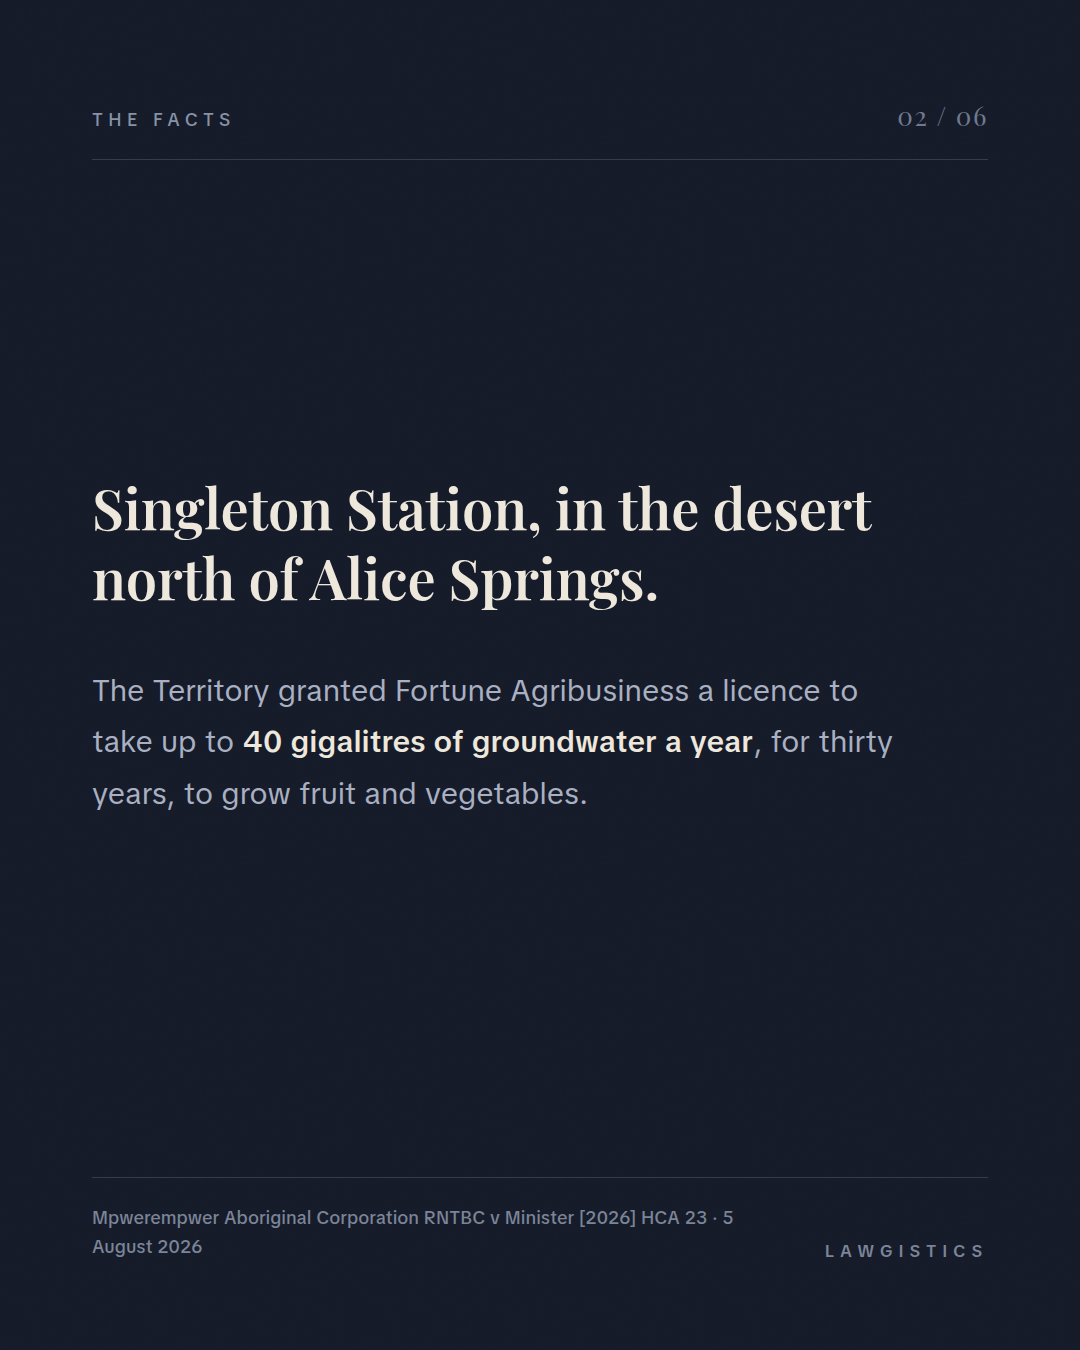
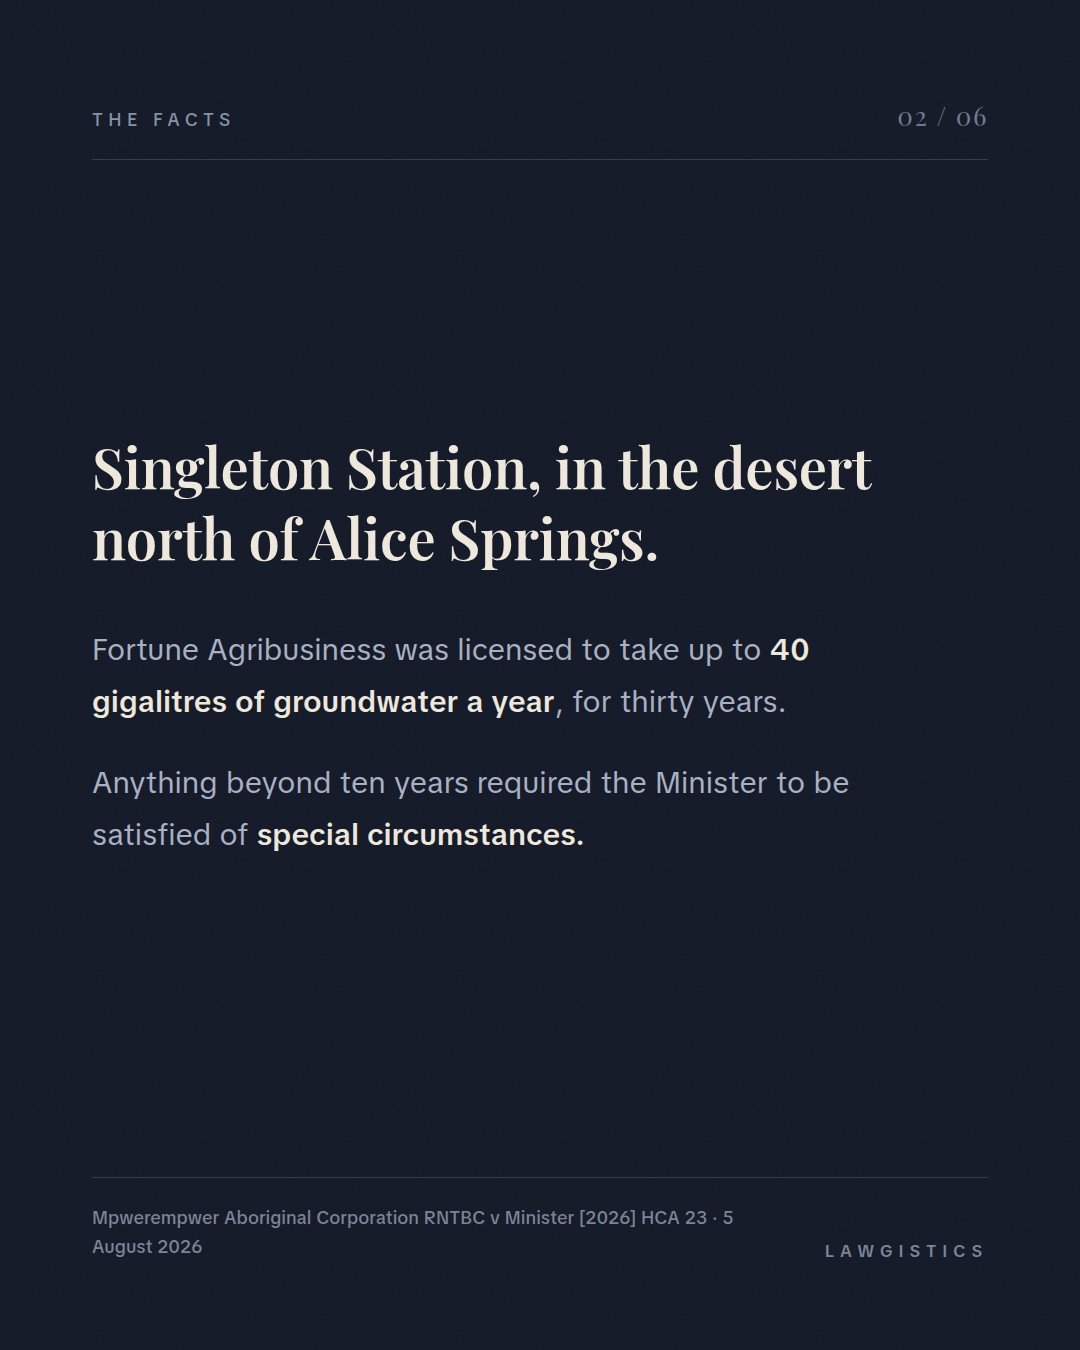
Second verification pass on HCA 23, rewrite slides 2 to 4
Legal trade reporting supplied the specific procedural fairness finding: a new
condition required an Aboriginal cultural values impact assessment, Fortune was
given two days to respond, and the Corporation was not notified until after the
licence issued. Also confirmed s 60 Water Act 1992 (NT), the special
circumstances requirement beyond ten years, and the full bench of seven.

Slides, caption, LinkedIn post and reel script rewritten on that basis and the
earlier hedging removed. Unanimity remains unverified and is not asserted.

Claude-Session: https://claude.ai/code/session_01JRjeUUcoRT5GxuTf3inkfN

Changed region(s): [[0.0917, 0.3111, 0.825, 0.6533]]

diff --git a/tools/carousel/water.py b/tools/carousel/water.py
@@ -95,19 +95,20 @@ slide(1, "A Case Study",
 
 slide(2, "The Facts",
   '<div class="statement md">Singleton Station, in the desert north of Alice Springs.</div>'
-  '<div class="body"><p>The Territory granted Fortune Agribusiness a licence to take up to <b>40 gigalitres of groundwater a year</b>, for thirty years, to grow fruit and vegetables.</p></div>',
+  '<div class="body"><p>Fortune Agribusiness was licensed to take up to <b>40 gigalitres of groundwater a year</b>, for thirty years.</p>'
+  '<p>Anything beyond ten years required the Minister to be satisfied of <b>special circumstances.</b></p></div>',
   cite=C)
 
 slide(3, "The Problem",
-  '<div class="statement md">The native title holders were never asked.</div>'
-  '<div class="body"><p>Mpwerempwer Aboriginal Corporation holds native title over the land.</p>'
-  '<p>On the reported outcome, it was given <b>no notice</b> of the proposed conditions and <b>no opportunity</b> to be heard on them.</p></div>',
+  '<div class="statement md">The company got two days. The native title holders were told <em>afterwards.</em></div>'
+  '<div class="body"><p>A new condition required an assessment of the impact on Aboriginal cultural values. Fortune was notified and given two days to respond.</p>'
+  '<p>Mpwerempwer Aboriginal Corporation heard nothing until the licence had already issued.</p></div>',
   cite=C)
 
 slide(4, "The Ruling",
-  '<div class="statement md">Licence quashed. Back to the Minister.</div>'
-  '<div class="body"><p>The application returns to Northern Territory decision makers to be made again, properly this time.</p>'
-  '<p>Thirty years of extraction, undone by the step that came before it.</p></div>',
+  '<div class="statement md">Licence set aside. Back to the Minister.</div>'
+  '<div class="body"><p>The Court held the Corporation should have been <b>heard first.</b></p>'
+  '<p>The application returns to the Minister to be decided again according to law. Thirty years of extraction, undone by the step before the decision.</p></div>',
   cite=C)
 
 slide(5, "The Principle",

diff --git a/reports/assets/2026-08-10/POSTING-KIT.md b/reports/assets/2026-08-10/POSTING-KIT.md
@@ -4,7 +4,7 @@
 **Case:** Mpwerempwer Aboriginal Corporation RNTBC v Minister [2026] HCA 23, High Court, 5 August 2026.
 **Why this one:** it is the biggest administrative law story of the sitting, and it lands squarely on a subject the audience is actually enrolled in. Slide 6 makes that explicit rather than leaving it to a practitioner to appreciate.
 
-⚠ **Read section 3 of `reports/2026-08-10-daily-court-intelligence.md` before posting.** Court sites are blocked from this environment, so the precise ground of decision and the bench are unconfirmed. The slides are worded conservatively for that reason.
+**Verification:** a second pass found legal trade reporting with the specific procedural fairness finding, so slides 2 to 4 were rewritten around it and the earlier hedging removed. Full table in section 3 of `reports/2026-08-10-daily-court-intelligence.md`. One item remains unverified: whether the Court was unanimous. Nothing published asserts it.
 
 ---
 
@@ -16,11 +16,15 @@ The Northern Territory granted Fortune Agribusiness a licence to take up to 40 g
 
 Mpwerempwer Aboriginal Corporation holds native title over that country. It challenged the grant.
 
-On 5 August the High Court quashed the licence and sent the application back to Northern Territory decision makers to be made again.
+On 5 August the High Court set the licence aside and sent the application back to the Minister to be decided again according to law.
 
-What is worth sitting with is how it fell. Not on the hydrology. Not on whether the water was there. On the reported outcome, the Corporation was given no notice of the conditions being proposed and no opportunity to be heard on them.
+What is worth sitting with is how it fell. Not on the hydrology. Not on whether the water was there.
 
-That is the whole of it. A decision can be defensible on its merits and still not survive, because fairness in the process is a condition of the power, not a courtesy extended afterwards by a decision maker who is feeling generous.
+A new condition was imposed requiring an assessment of the impact on Aboriginal cultural values. Fortune was told about it and given two days to respond. The Corporation was not told until after the licence had already issued. The Court held it should have been heard first.
+
+Two days for one party. A notification after the fact for the other.
+
+A decision can be perfectly defensible on its merits and still not survive, because fairness in the process is a condition of the power, not a courtesy extended afterwards by a decision maker who is feeling generous.
 
 If you are doing administrative law this semester, this is your exam paper walking around outside. Natural justice. Mandatory relevant considerations. Jurisdictional error. Certiorari and remitter. The doctrine you are being drilled on just unwound a thirty year entitlement.
 
@@ -48,7 +52,7 @@ A thirty year water entitlement has been set aside, and not on its merits.
 
 On 5 August the High Court quashed the licence granted to Fortune Agribusiness to extract up to 40 gigalitres of groundwater a year for thirty years at Singleton Station in the Northern Territory, and remitted the application to Territory decision makers. The Central Land Council describes it as the largest groundwater licence ever granted in the Territory.
 
-The challenge was brought by Mpwerempwer Aboriginal Corporation, the registered native title body corporate for the land. On the reported outcome, the Corporation received no notice of the conditions proposed and no opportunity to be heard on them.
+The challenge was brought by Mpwerempwer Aboriginal Corporation, the registered native title body corporate for the land. A new condition was imposed requiring an assessment of the impact on Aboriginal cultural values. Fortune was notified of it and given two days to respond. The Corporation was not notified until after the licence had issued. The Court held it should have been heard first.
 
 Two observations.
 
@@ -76,7 +80,7 @@ The Northern Territory granted it to a horticulture company in the desert north 
 Last Wednesday the High Court quashed it.
 
 **[0:16]**
-Not because of the water science. Because the native title holders were given no notice of the proposed conditions, and no chance to respond.
+Not because of the water science. A new condition went to the company, which got two days to respond. The native title holders were told after the licence issued.
 
 **[0:24]**
 Procedural fairness is not a courtesy. It is a condition of the power. Get it wrong and the whole decision goes.
@@ -89,7 +93,7 @@ Mpwerempwer, 2026, High Court 23.
 ## Story frames
 
 - "Forty gigalitres a year. Thirty years. Gone." → slide 1
-- "It did not fall on the science." → slide 3
+- "One party got two days. The other got told afterwards." → slide 3
 - "Your admin law exam, outside." → slide 6
 
 ---
@@ -98,12 +102,10 @@ Mpwerempwer, 2026, High Court 23.
 
 Full table in `reports/2026-08-10-daily-court-intelligence.md` section 3. Short version:
 
-**Confirmed across two independent searches:** citation and date, licence quashed and remitted, 40 GL per year for thirty years, Fortune Agribusiness at Singleton Station.
+**Confirmed:** citation and date, licence set aside and remitted to the Minister, 40 GL per year for thirty years, Fortune Agribusiness Funds Management Pty Ltd at Singleton Station, s 60 *Water Act 1992* (NT), the special circumstances requirement for a term beyond ten years, the two day window given to Fortune, the Corporation being notified only after the licence issued, and the holding that it should have been heard first. Bench: Gageler CJ, Gordon, Edelman, Steward, Gleeson, Jagot and Beech-Jones JJ.
 
 **Attributed, not judicial:** "largest groundwater licence ever granted in the NT" is the Central Land Council's characterisation. The caption attributes it. Keep that attribution.
 
-**Reported but not confirmed from the judgment:** that procedural fairness was the operative ground. Slide 3 says "on the reported outcome" deliberately.
-
-**Not verified at all:** bench composition, whether unanimous. Nothing on the slides or in the caption asserts either.
+**Still not verified:** whether the decision was unanimous. Nothing on the slides or in the caption asserts it either way.
 
 **Deliberately omitted:** the "two Sydney Harbours" comparison in some coverage. It does not hold for annual volume and only works across the full term. Better left out than repeated loosely.

diff --git a/reports/2026-08-10-daily-court-intelligence.md b/reports/2026-08-10-daily-court-intelligence.md
@@ -12,9 +12,15 @@ Covering the High Court sitting of **Wednesday 5 August 2026**, the most recent 
 
 **What happened.** The Northern Territory granted Fortune Agribusiness a licence to extract up to **40 gigalitres of groundwater a year for thirty years** at Singleton Station, in the desert north of Alice Springs, to develop what was reported as one of Australia's largest fruit and vegetable operations. The Central Land Council describes it as the largest groundwater licence ever granted in the Territory.
 
-**The challenge.** Mpwerempwer Aboriginal Corporation, the registered native title body corporate for the land, challenged the grant. Reported arguments included that the Minister failed to justify a thirty year term rather than the standard ten, and failed to take into account a mandatory relevant consideration, being the protection of Aboriginal cultural values under s 90(1) of the *Water Act* (NT).
+**The statutory frame.** The licence was granted under s 60 of the *Water Act 1992* (NT). A licence for a period beyond ten years required the Minister to be satisfied that special circumstances justified it, and the Minister was required to take into account the protection of Aboriginal cultural values associated with water.
 
-**The outcome.** The High Court **quashed the licence** and remitted the application to Northern Territory decision makers. Reporting of the reasoning is that the Corporation was given no notice of the proposed conditions and no opportunity to be heard on them, that is, a denial of procedural fairness.
+**The challenge.** Mpwerempwer Aboriginal Corporation, the registered native title body corporate for the land, challenged the grant.
+
+**The procedural fairness finding.** A new condition was imposed requiring Fortune to prepare an assessment of the impact on Aboriginal cultural values. **Fortune was told of that condition and given two days to respond. The Corporation was not notified until after the licence had issued.** The Court held the Corporation should have been heard first.
+
+**The outcome.** The licence was **set aside** and the matter remitted to the responsible Minister to be decided again according to law.
+
+**Bench.** Gageler CJ, Gordon, Edelman, Steward, Gleeson, Jagot and Beech-Jones JJ. A full court of seven. Whether the decision was unanimous is not confirmed.
 
 **Why it matters.** A thirty year extraction entitlement, worth an enormous amount and years in the making, was undone not on the merits of the water science but on the step that came before the decision. It is a live illustration of the point every administrative law course makes: fairness in the process is a condition of the power, not a nicety layered on top of it.
 
@@ -42,16 +48,19 @@ The High Court delivered five judgments that day:
 
 | Fact | Status |
 |---|---|
-| Citation [2026] HCA 23, delivered 5 August 2026 | Confirmed, two independent searches |
-| Licence quashed and remitted to NT decision makers | Confirmed, two independent searches |
-| Up to 40 gigalitres per year, thirty year term | Confirmed, two independent searches |
-| Fortune Agribusiness, Singleton Station, NT | Confirmed |
+| Citation [2026] HCA 23, delivered 5 August 2026 | Confirmed, multiple searches |
+| Licence set aside and remitted to the Minister to be decided again according to law | Confirmed, multiple sources |
+| Up to 40 gigalitres (40 billion litres) per year, thirty year term | Confirmed, multiple sources |
+| Fortune Agribusiness Funds Management Pty Ltd, Singleton Station, NT | Confirmed |
+| Granted under s 60 *Water Act 1992* (NT); term beyond ten years required the Minister to be satisfied of special circumstances; protection of Aboriginal cultural values a required consideration | Confirmed via legal trade reporting (Australasian Lawyer) |
+| New condition requiring an Aboriginal cultural values impact assessment; Fortune notified and given **two days** to respond; the Corporation not notified until after the licence issued; Court held it should have been heard first | Confirmed via legal trade reporting, corroborated on a second independently worded search |
+| Bench: Gageler CJ, Gordon, Edelman, Steward, Gleeson, Jagot and Beech-Jones JJ | Confirmed |
+| Whether the decision was **unanimous** | **Still not verified.** Nothing on the slides or in the caption asserts it. |
 | "Largest groundwater licence ever granted in the NT" | Attributed to the Central Land Council, not to the Court. Keep the attribution if you use it. |
-| Denial of procedural fairness, no notice of conditions, no opportunity to be heard | Reported as the outcome by one source. **The slides say "on the reported outcome" for this reason.** |
-| s 90(1) *Water Act* (NT), thirty versus ten year term | Reported as arguments run, not confirmed as the ground decided |
-| Bench composition and whether unanimous | **Not verified** |
 
-**Before publishing**, check the judgment or the official summary for: the composition of the bench, whether the decision was unanimous, and the precise ground on which the licence was set aside. If procedural fairness was not the operative ground, slides 3 and 5 need rewording, and I would rather change them than have you post something imprecise.
+**Upgrade note, second verification pass.** The first pass relied on general news wire copy and could only say that procedural fairness was "the reported outcome". A second pass found legal trade reporting with the specific finding: the two day window given to Fortune, and the Corporation being told only after the licence issued. Slides 2, 3 and 4 were rewritten on that basis and the hedge was removed, because the fact is now sourced rather than inferred.
+
+**Still worth doing before you post:** open the judgment or the official High Court summary and confirm whether the Court was unanimous. Nothing currently published by us depends on it, so this is a completeness check rather than a correction risk.
 
 The "Sydney Harbour" comparison used in some coverage is not on the slides. Forty gigalitres is not two Sydney Harbours a year, and the comparison only works across the full thirty year term. Left it out rather than repeat it loosely.
 
